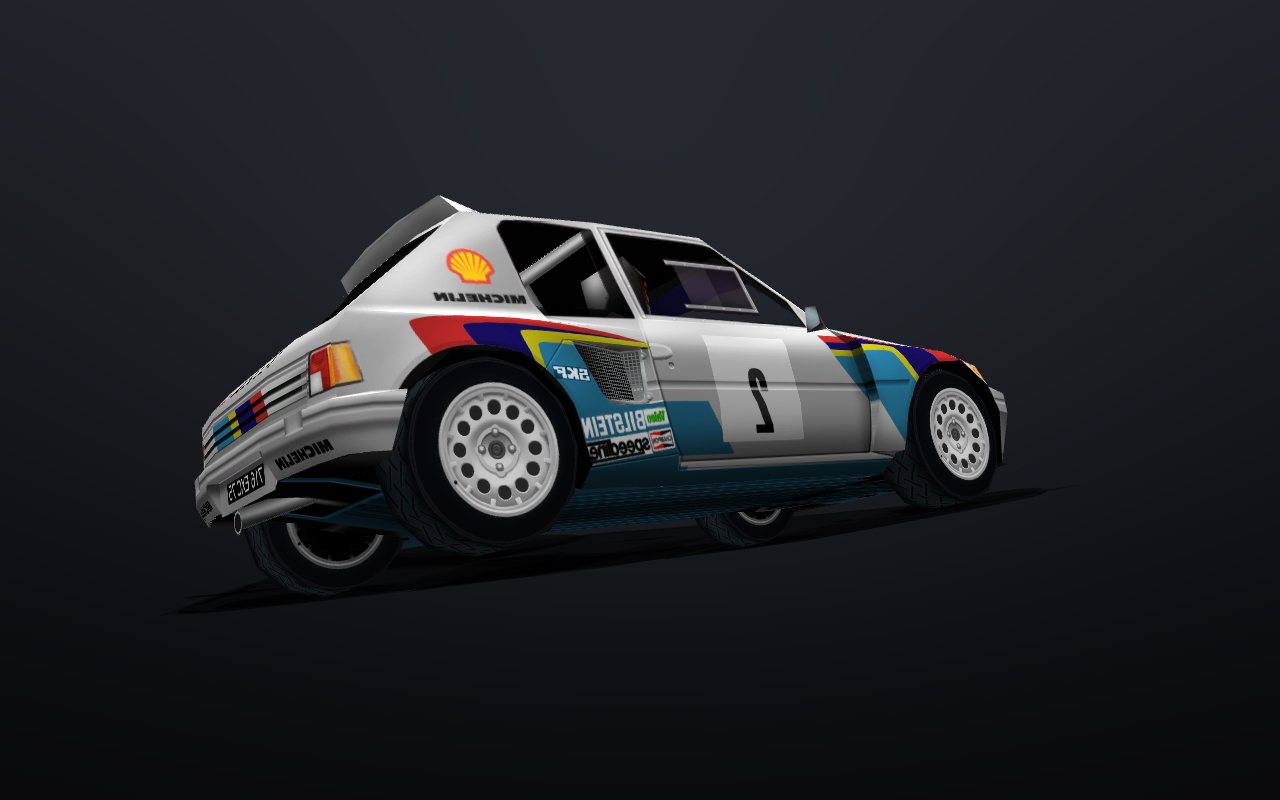
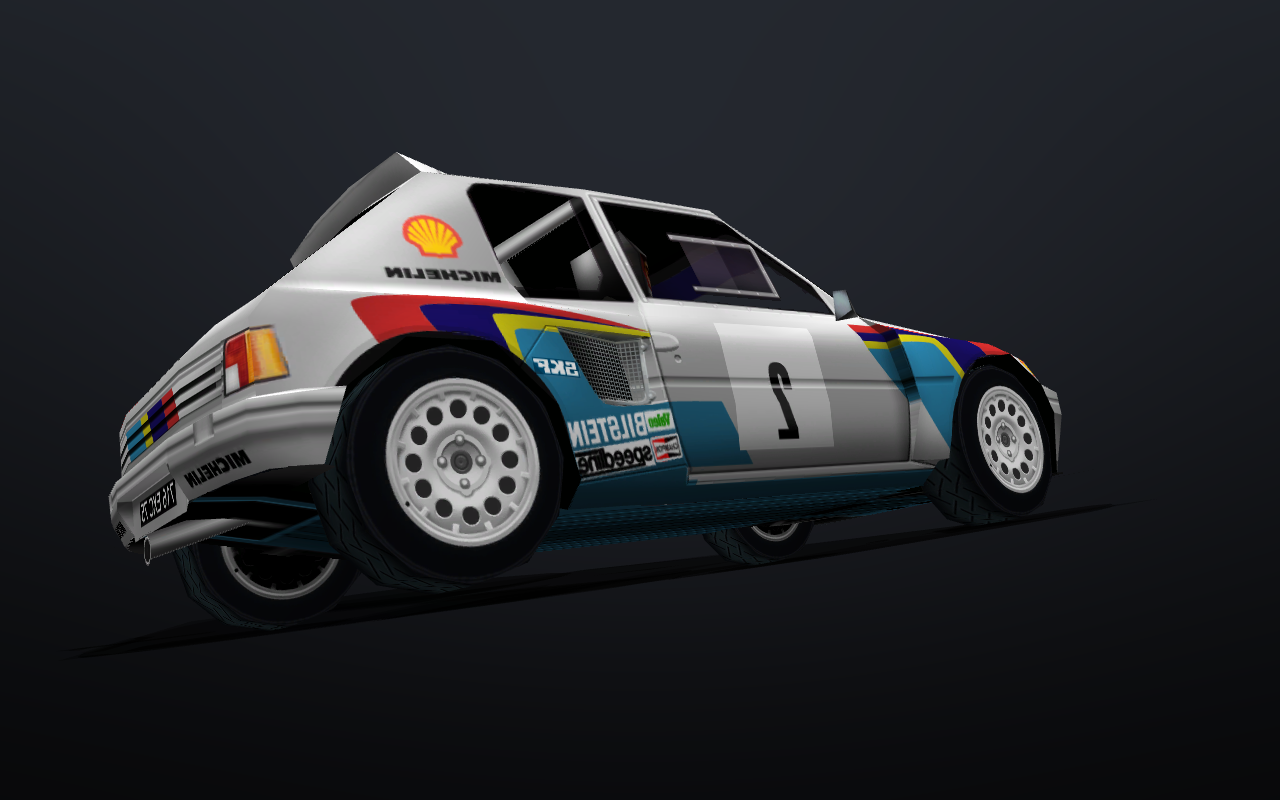
framing measured to 28.8% of the frame, and the pictures now replay byte-for-byte
distk 1.30 -> 1.12: coverage 21.4% -> 28.8% of a 1280x800 frame, chosen as the
largest value that still leaves a margin for the cast shadow on every car measured.

Reproducibility check, in the note now: replay the five patch scripts over the
pristine source, rebuild, re-render -> identical source, same md5, 0 differing
pixels. The PNGs are not a lucky run.

All three sheets re-rendered at the new framing.

Changed region(s): [[0.0625, 0.1875, 0.8438, 0.75]]

diff --git a/src/port/cmr2deck.c b/src/port/cmr2deck.c
@@ -1185,7 +1185,7 @@ int main(int argc, char **argv) {
     if ((e = getenv("WY"))) wy = (float)atof(e);
     if ((e = getenv("WZ"))) wz = (float)atof(e);
     /* fixed camera, so two runs can be compared pixel for pixel */
-    float yaw0 = 38.0f, elev0 = 14.0f, distk = 1.30f;
+    float yaw0 = 38.0f, elev0 = 14.0f, distk = 1.12f;
     if ((e = getenv("YAW")))  yaw0  = (float)atof(e);
     if ((e = getenv("ELEV"))) elev0 = (float)atof(e);
     if ((e = getenv("DIST"))) distk = (float)atof(e);

diff --git a/docs/FRAME-NOTE.md b/docs/FRAME-NOTE.md
@@ -174,8 +174,10 @@ output is bit-identical to what it was before that patch.
 * **The backdrop.** A gradient I wrote, drawn as a full-screen triangle. CMR2 has
   no garage; its cars are drawn inside a stage against sky, trees and road.
 * **MSAA 4x.** The game rendered into a plain surface with no multisampling.
-* **The camera.** Fixed by me: yaw 38°, elevation 14°, distance 1.30 × the car's
-  longest side. The interactive viewer has a gamepad camera.
+* **The camera.** Fixed by me: yaw 38°, elevation 14°, distance 1.12 × the car's
+  longest side — chosen by measuring coverage (21.4% of the frame at 1.30, 28.8% at
+  1.12) and stopping where the cast shadow still keeps a margin on every car
+  measured. The interactive viewer has a gamepad camera.
 * **The material.** White, i.e. `g_sceneMaterial` as `Scene_RestoreLights`
   (0x004b2e50) sets it. Not stubbed wrongly — just noting it is a constant here.
 * **Not implemented at all:** fog, the second uv set, the per-triangle
@@ -227,5 +229,20 @@ Knobs that change the picture, all printed by the binary at startup:
 `FULLSCREEN=`, `EXITFRAMES=n`, `TEXDUMP=DIR`.
 
 `NOCAR=1` exists for honesty: it renders the backdrop and nothing else, so
-"how much of the frame is the car" is a measured number (21.5%) instead of an
+"how much of the frame is the car" is a measured number — **28.8%**, in a
+1089 x 509 px bounding box that also contains the cast shadow — instead of an
 impression.
+
+## 7. THE PICTURES ARE REPRODUCIBLE FROM THIS REPO, BYTE FOR BYTE
+
+Replayed from the pristine source with the five patch scripts, in order:
+
+```
+patch_textures.py -> patch_states.py -> patch_pretty.py -> patch_nametex.py -> patch_swapfmt.py
+$ diff -q src/cmr2deck.c <the source that drew the PNGs>   # identical
+$ md5sum hero.bmp  (before / after the replay)              # 91a8ad5135bf1171568b950f95d22598, both
+$ preview.py --diff before.bmp after.bmp                    # 0 pixels differ
+```
+
+So the frame in `screenshots/` is not a lucky run: it is what that source produces
+on this Deck today.

diff --git a/progress.md b/progress.md
@@ -41,8 +41,8 @@ Read §0 as mine, dated, and everything below as the previous worker's.
   was bound to texture 0, `AP5NWBDf`, mean RGB 17,17,19, which is why the car was a
   grey blob. After: 8 distinct textures over 27 runs, 0 runs refused.
 - **Measured, not eyeballed** (`src/port/tools/preview.py --diff`, against a frame
-  rendered with `NOCAR=1`): the car covers **21.5%** of a 1280x800 frame in 926x421 px;
-  its mean luminance is **72.5**; the culling direction is settled by measurement
+  rendered with `NOCAR=1`): the car covers **28.8%** of a 1280x800 frame in 1089x509 px;
+  its mean luminance is **76.6**; the culling direction is settled by measurement
   (`CULL=front` drops that to **28.8**, `CULL=back` ≈ `CULL=none`), so the faces kept
   are the outside ones.
 - **Mine, labelled, and in the note:** the ambient value, both lights, the planar
@@ -67,6 +67,9 @@ Read §0 as mine, dated, and everything below as the previous worker's.
 - **The windowed path core-dumped and now does not** (`patch_swapfmt.py`: a Deck
   swapchain is `B8G8R8A8_UNORM`, not `R8G8B8A8_UNORM`, and SDL refuses a resolve
   across two formats). Verified: 120 frames in a real window, clean exit.
+- **The frame is reproducible from the repo byte for byte**: replaying the five patch
+  scripts over the pristine source, rebuilding and re-rendering gives the same md5
+  (`91a8ad5135bf1171568b950f95d22598`) and 0 differing pixels.
 - **Not claimed:** no human has looked at this frame. Miami is the first. And 258 of
   the 259 cars in the sweep have never been looked at at all — that sweep is counts.
 
